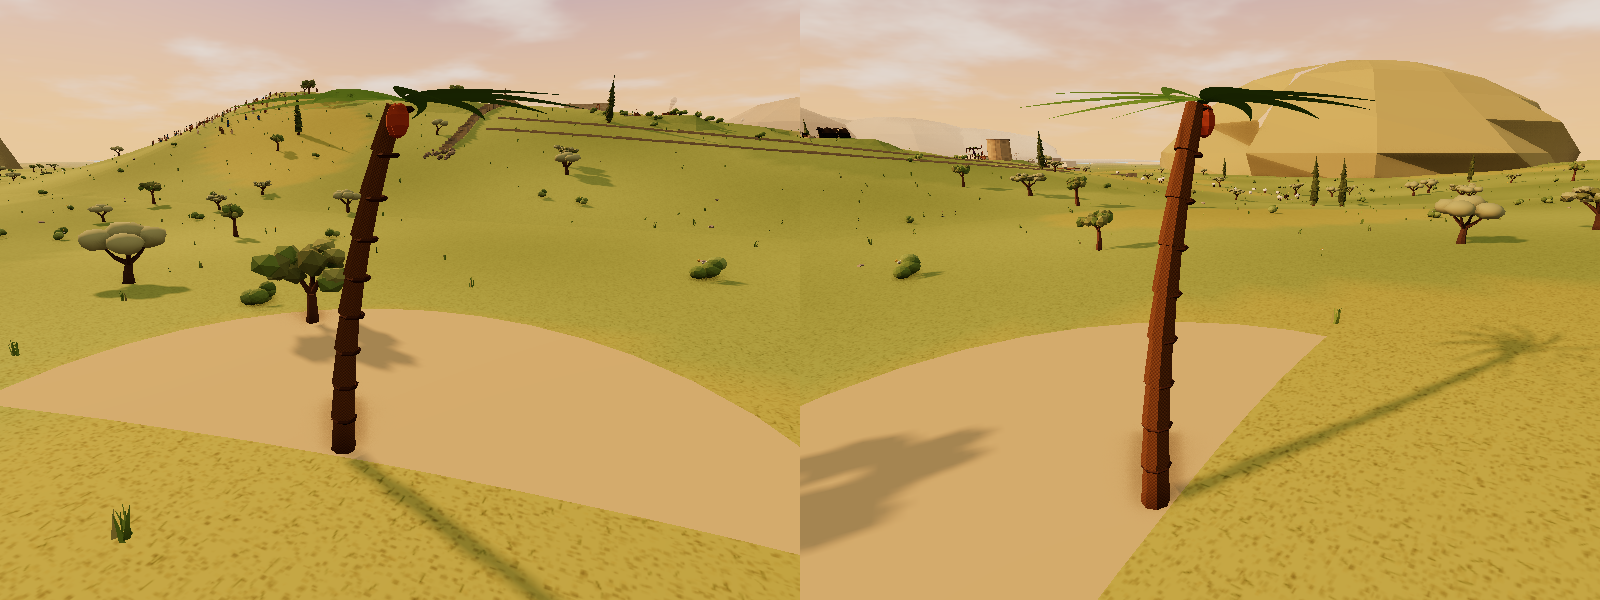
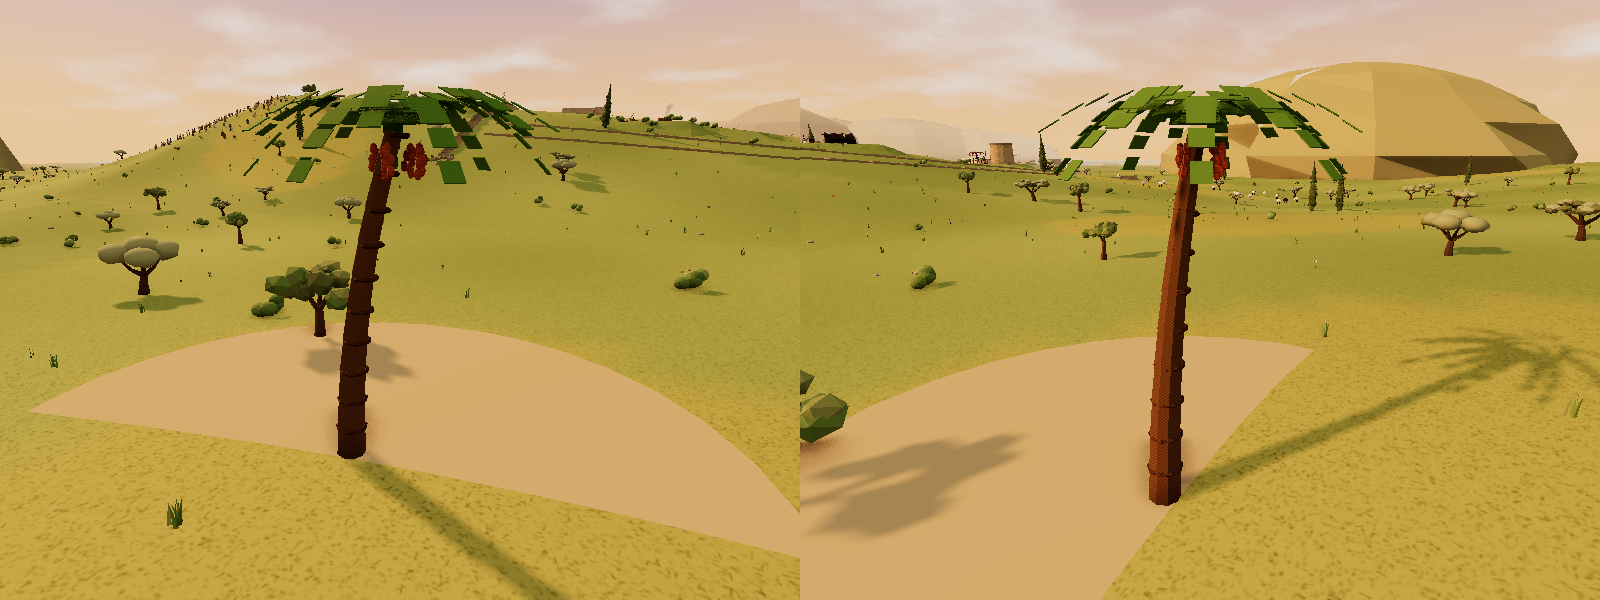
Model workshop round 2: all 22 models rebuilt from the critic's notes
Claude-Session: https://claude.ai/code/session_011GTaBjBmrRYMxR8CbFEKPF

diff --git a/som-ltm/world/models.js b/som-ltm/world/models.js
@@ -24,127 +24,145 @@ function thornBush(g, x, y, z, s = 1) { for (let i = 0; i < 9; i++) { const a = 
 function def(id, label, fn) { defObject(id, (g, x, y, z) => { const h = G(); h.position.set(x, y, z); g.add(h); return fn(h); }, { label, origin: 'sermon on the mount', kind: 'object' }); }
 
 // ---- the Seat (5:1–5) ----
-def('som-goatskin-bag', 'Goatskin water bag on a forked stake', g => {
-  cy(g, .05, .07, 1.75, 7, mWoodDk, 0, 0, 0); cy(g, .03, .045, .5, 6, mWoodDk, -.12, 1.6, 0, 0, 0, .6); cy(g, .03, .045, .5, 6, mWoodDk, .12, 1.6, 0, 0, 0, -.6);   // the forked stake
-  const hair = MM('somGoatHair', '#8a6440', TEX.cloth);
-  const body = add(new THREE.CapsuleGeometry(.24, .62, 6, 12), hair, 0, 1.05, .32, g); body.rotation.z = Math.PI / 2; body.scale.set(1, 1.05, .85);   // the whole skin, swollen with water, hanging sideways
-  const belly = add(new THREE.SphereGeometry(.26, 12, 8), hair, .05, .93, .32, g); belly.scale.set(1.5, .7, .85);   // sagging belly
-  for (const [x, up] of [[-.45, 1], [-.3, 1], [.3, 1], [.45, 1]]) { const lg = cy(g, .05, .07, .26, 7, mLeatherDk, x, 1.18, .32, 0, 0, x < 0 ? .5 : -.5); cy(g, .055, .055, .04, 7, mCord, x * 1.1, 1.35, .32, 0, 0, x < 0 ? .5 : -.5); }   // four leg stumps, each tied off
-  const nk = cy(g, .07, .1, .26, 8, mLeatherDk, -.62, 1.02, .32, 0, 0, 1.2); cy(g, .075, .075, .05, 8, mCord, -.74, 1.07, .32, 0, 0, 1.2);   // the neck, the spout, tied with cord
-  for (const sx of [-.4, .4]) { const c2 = cy(g, .012, .012, .55, 4, mCord, sx * .55, 1.5, .2, .5, 0, sx < 0 ? -.45 : .45); }   // cords from the legs up to the fork
-  return 1.9; });
+def('som-goatskin-bag', 'Goatskin water bag hung from a forked stake', g => {
+  cy(g, .05, .07, 1.9, 7, mWoodDk, 0, 0, -.35); cy(g, .03, .045, .55, 6, mWoodDk, -.14, 1.75, -.35, 0, 0, .6); cy(g, .03, .045, .55, 6, mWoodDk, .14, 1.75, -.35, 0, 0, -.6);   // the forked stake, behind the bag
+  const hair = MM('somGoatHair', '#8a6440', TEX.cloth), seam = MM('somSeam', '#4a3020');
+  const body = add(new THREE.CapsuleGeometry(.25, .62, 6, 12), hair, 0, .95, .1, g); body.rotation.z = Math.PI / 2; body.scale.set(1, 1.05, .85); const belly = add(new THREE.SphereGeometry(.27, 12, 8), hair, .05, .83, .1, g); belly.scale.set(1.5, .72, .85);
+  bx(g, 1.0, .02, .02, seam, 0, 1.12, .3); bx(g, .02, .35, .02, seam, -.15, .95, .32);   // seams of the stitched skin
+  for (const x of [-.45, -.3, .3, .45]) { cy(g, .055, .075, .3, 7, mLeatherDk, x, 1.12, .1, 0, 0, x < 0 ? .45 : -.45); cy(g, .06, .06, .04, 7, mCord, x * 1.12, 1.3, .1, 0, 0, x < 0 ? .45 : -.45); }   // four leg stubs, tied off
+  cy(g, .08, .11, .3, 8, mLeatherDk, -.66, .95, .1, 0, 0, 1.15); cy(g, .085, .085, .05, 8, mCord, -.8, 1.01, .1, 0, 0, 1.15); cy(g, .05, .05, .06, 6, mWoodLt, -.84, 1.04, .1, 0, 0, 1.15);   // the neck, tied, a wooden stopper
+  for (const x of [-.5, .5]) { const lx = x * .9, ly = 1.32, tx = x * .32, ty = 1.95, L = Math.hypot(tx - lx, ty - ly, .45); const c = cy(g, .013, .013, L, 4, mCord, (lx + tx) / 2, (ly + ty) / 2 - L / 2, -.12, .55, 0, Math.atan2(tx - lx, ty - ly) * -1); }   // cords from the legs up to the fork
+  return 2.0; });
 def('som-limestone-pavement', 'Bare limestone pavement', g => {
-  const P = [[0, 0, 1.0], [1.35, -.3, .75], [-1.25, .2, .8], [.4, 1.1, .7], [-.5, -1.0, .65], [1.1, .9, .5], [-1.4, -.9, .45], [.2, -1.6, .5]];
-  P.forEach(([x, z, r], i) => slab(g, r * .92, R(.08, .14), i % 3 ? mLime : mLimeDk, x, R(-.02, .03), z, 6, R(0, 3)));
-  bx(g, 4.2, .02, 4, MM('somCrack', '#5a5040'), 0, -.01, 0);   // the dark soil showing in the cracks between the slabs
-  for (let i = 0; i < 14; i++) { const t = add(new THREE.ConeGeometry(.03, R(.12, .25), 3), mGrass, R(-1.6, 1.6), .05, R(-1.6, 1.4), g); }   // grass in the cracks
-  return .2; });
+  const soil = add(new THREE.CircleGeometry(2.1, 9), MM('somCrack', '#6a5e48'), 0, .005, 0, g); soil.rotation.x = -Math.PI / 2; soil.scale.set(1, .9, 1);
+  const P = [[0, 0, .9], [1.25, -.35, .65], [-1.15, .2, .7], [.35, 1.05, .62], [-.45, -.95, .6], [1.05, .85, .45], [-1.3, -.85, .4], [.25, -1.5, .45], [-.8, 1.1, .45]];
+  P.forEach(([x, z, r], i) => { const sh = new THREE.Shape(); const n = 4 + (i % 3); for (let k = 0; k < n; k++) { const a = k / n * 6.283 + R(-.3, .3), rr = r * R(.7, 1.05); k ? sh.lineTo(Math.cos(a) * rr, Math.sin(a) * rr) : sh.moveTo(Math.cos(a) * rr, Math.sin(a) * rr); }
+    const geo = new THREE.ExtrudeGeometry(sh, { depth: R(.12, .2), bevelEnabled: false }); geo.rotateX(-Math.PI / 2); const o = add(geo, i % 3 ? mLime : mLimeDk, x, 0, z, g); o.rotation.y = R(0, 3); });   // angular blocks with deep cracks between
+  for (let i = 0; i < 26; i++) { const a = R(0, 6.3), d = R(.4, 1.9); add(new THREE.ConeGeometry(.035, R(.15, .3), 3), mGrass, Math.cos(a) * d, .08, Math.sin(a) * d, g); }   // grass in the grikes
+  return .22; });
 def('som-seat-rock', 'Flat seat-rock', g => {
-  boulder(g, 1.2, mRock, 0, -.15, 0, .55); slab(g, .95, .1, mLime, 0, .52, 0, 7, .4); boulder(g, .4, mRockDk, -1.1, 0, .5, .6); boulder(g, .3, mRockDk, .9, 0, .8, .6);
-  return .65; });
+  const rk = MM('somSeatRock', '#b4aa96'); const shp = new THREE.Shape(); [[1.2, 0], [.8, .9], [-.4, 1.05], [-1.15, .35], [-1, -.6], [-.1, -1.1], [.9, -.75]].forEach(([x, z], i) => i ? shp.lineTo(x, z) : shp.moveTo(x, z));
+  const geo = new THREE.ExtrudeGeometry(shp, { depth: .55, bevelEnabled: true, bevelThickness: .12, bevelSize: .15, bevelSegments: 2 }); geo.rotateX(-Math.PI / 2); add(geo, rk, 0, 0, 0, g);   // one stone, its top worn flat
+  for (const [x, z, r] of [[-1.35, .55, .3], [1.25, .7, .25], [1.4, -.5, .2], [-.9, -1.15, .22], [.3, 1.35, .18]]) boulder(g, r, mRockDk, x, 0, z, .7);
+  return .8; });
 def('som-split-boulder', 'Split boulder with a thornbush in the crack', g => {
-  const a = boulder(g, .85, mRock, -.55, 0, 0, .85); a.scale.x = .8; const b = boulder(g, .8, mRockDk, .55, 0, .05, .85); b.scale.x = .8;
-  bx(g, .18, .3, 1.2, mDark, 0, 0, 0); thornBush(g, 0, .3, .1, 1.5);
-  return 1.25; });
+  const geo = new THREE.DodecahedronGeometry(.9, 0); const half = (s) => { const o = add(geo.clone(), mRock, s * .52, .55, 0, g); o.scale.set(.62, .78, .95); o.rotation.y = .3; return o; }; half(-1); half(1);   // the two halves of one stone
+  for (let k = 0; k < 3; k++) thornBush(g, R(-.05, .05), .25 + k * .1, R(-.25, .25), 1.6);
+  return 1.3; });
 
 // ---- the Sheepfold (5:6–10) ----
 function dryWall(g, x0, z0, x1, z1, hh, th = .5) { const L = Math.hypot(x1 - x0, z1 - z0), n = Math.max(2, Math.round(L / .42)); for (let row = 0; row < Math.round(hh / .26); row++) for (let k = 0; k <= n; k++) { const t = Math.min(1, (k + (row % 2) * .5) / n);
   const st = add(new THREE.BoxGeometry(R(.38, .5), R(.2, .28), th * R(.85, 1.05)), rnd() > .45 ? mRock : mRockDk, x0 + (x1 - x0) * t, .13 + row * .25, z0 + (z1 - z0) * t, g); st.rotation.y = -Math.atan2(z1 - z0, x1 - x0) + R(-.1, .1); st.rotation.z = R(-.06, .06); } }
 def('som-slab-corner', 'Corner of the fold roofed with flat slabs', g => {
-  dryWall(g, -1.2, -1.2, 1.2, -1.2, 1.3); dryWall(g, -1.2, -1.2, -1.2, 1.0, 1.3);   // two walls meeting at the back-left
-  for (let k = 0; k < 3; k++) slab(g, .8, .14, mRockDk, -.5 + k * .55, 1.32, -.5 + k * .1, 5, R(0, 3));   // thick flat slabs laid across
-  bx(g, 1.8, .02, 1.8, mDark, -.3, .01, -.3);   // the shade beneath
-  return 1.6; });
-def('som-crook', 'Shepherd\'s crook hung on the wall', g => {
-  dryWall(g, -.8, 0, .8, 0, .9, .45); cy(g, .03, .03, .25, 5, mWoodDk, .25, .78, .2, Math.PI / 2);   // a stretch of wall with a peg
-  const st = cy(g, .03, .035, 1.9, 7, mWoodLt, .2, -.05, .26, -.04, 0, .1); const hk = add(new THREE.TorusGeometry(.14, .03, 6, 12, Math.PI * 1.25), mWoodLt, .38, 1.9, .26, g); hk.rotation.z = -.3;
-  return 2.1; });
+  bx(g, 2.6, .02, 2.4, MM('somFoldFloor', '#9a8458'), 0, .01, -.1);   // trodden earth floor
+  dryWall(g, -1.25, -1.25, 1.25, -1.25, 1.35, .7); dryWall(g, -1.25, -1.25, -1.25, 1.05, 1.35, .7);
+  slab(g, 1.0, .2, mRockDk, -.35, 1.38, -.5, 5, .4); slab(g, .9, .2, mRock, .3, 1.4, -.25, 5, 1.6); slab(g, .8, .18, mRockDk, -.5, 1.42, .3, 5, 2.6);   // three thick slabs laid across for shade
+  return 1.7; });
+def('som-crook', 'Shepherd\'s crook hung on a peg on the wall', g => {
+  dryWall(g, -.9, 0, .9, 0, 1.0, .45); const peg = cy(g, .045, .045, .32, 6, mWoodLt, .2, 1.0, .22, Math.PI / 2);   // dry-stone wall, a stout wooden peg
+  cy(g, .03, .035, 1.25, 7, mWoodLt, .48, -.05, .3, 0, 0, .02); const hk = add(new THREE.TorusGeometry(.15, .03, 6, 12, Math.PI * 1.1), mWoodLt, .33, 1.2, .3, g); hk.rotation.z = -.05;   // the crook hanging by its hook over the peg
+  return 1.4; });
 def('som-fold-gateway', 'Gateway of the fold', g => {
-  dryWall(g, -2, 0, -.75, 0, 1.0); dryWall(g, .75, 0, 2, 0, 1.0);
-  for (const s of [-1, 1]) { boulder(g, .42, mRockDk, s * .72, 0, 0, 2.2); } slab(g, .95, .16, mRock, 0, 1.25, 0, 5, 1.57);   // two upright stones, a lintel slab across
-  bx(g, 1.2, .02, .8, MM('somWorn', '#b8a070'), 0, .01, .3);   // worn earth through the gap
-  return 1.45; });
+  dryWall(g, -2.8, 0, -.85, 0, 1.25, .6); dryWall(g, .85, 0, 2.8, 0, 1.25, .6);
+  for (const s of [-1, 1]) bx(g, .45, 1.6, .55, mRock, s * .68, 0, 0, s * .04);   // two upright slabs with flat bearing faces
+  bx(g, 1.9, .26, .6, mRockDk, 0, 1.6, 0, .03); bx(g, 1.2, .02, .9, MM('somWorn', '#b8a070'), 0, .01, .3);   // the lintel; worn earth through the gap
+  return 1.9; });
 
 // ---- the House on the Sand (7:26–29) ----
 def('som-date-palm', 'Date palm leaning over the house', g => {
-  const n = 9; let x = 0, y = 0, lean = .08; for (let i = 0; i < n; i++) { const h = .55, seg = cy(g, .16 - i * .006, .19 - i * .006, h, 8, mPalmTrunk, x, y, 0, 0, 0, -lean * (i + 1) * .5); x += Math.sin(lean * (i + 1) * .5) * h; y += Math.cos(lean * (i + 1) * .5) * h; add(new THREE.TorusGeometry(.17 - i * .006, .03, 4, 8), mWoodDk, x, y - .02, 0, g).rotation.x = Math.PI / 2; }
-  for (let k = 0; k < 11; k++) { const a = k / 11 * 6.28, fr = new THREE.Group(); fr.position.set(x, y + .1, 0); fr.rotation.set(0, a, 0); g.add(fr);
-    const shape = new THREE.Shape(); shape.moveTo(0, 0); shape.quadraticCurveTo(.9, .35, 2, -.5); shape.quadraticCurveTo(.9, .1, 0, -.08); const leaf = add(new THREE.ShapeGeometry(shape), mFrond, 0, 0, 0, fr); leaf.rotation.set(Math.PI / 2 - R(.2, .5), 0, 0); }
-  for (let k = 0; k < 4; k++) add(new THREE.SphereGeometry(.12, 6, 5), mDates, x + R(-.2, .2), y - .15, R(-.2, .2), g).scale.y = 1.6;
-  return y + .4; });
+  let x = 0, y = 0; for (let i = 0; i < 10; i++) { const lean = .07 * (i + 1) * .45, r0 = .26 - i * .013, h = .55; cy(g, r0 - .015, r0, h, 9, mPalmTrunk, x, y, 0, 0, 0, -lean); x += Math.sin(lean) * h; y += Math.cos(lean) * h; add(new THREE.TorusGeometry(r0 - .01, .035, 4, 9), mWoodDk, x, y - .03, 0, g).rotation.set(Math.PI / 2, 0, -lean); }   // tapering, scarred trunk, leaning
+  for (let k = 0; k < 15; k++) { const a = k / 15 * 6.28, droop = k % 2 ? .55 : .25, fr = new THREE.Group(); fr.position.set(x, y + .1, 0); fr.rotation.set(0, a, 0); g.add(fr);
+    for (let j = 0; j < 7; j++) { const t = (j + .5) / 7, L = 2.2, px = t * L, py = Math.sin(t * 2.4) * .5 - t * t * droop * 2; const lf = bx(fr, .3, .015, .55 * (1 - t * .6), mFrond, px, py, 0, 0, 0, -.3 - t * droop); }
+  }   // fifteen arching fronds
+  for (let k = 0; k < 4; k++) { const a = k / 4 * 6.28; for (let j = 0; j < 8; j++) add(new THREE.SphereGeometry(.06, 5, 4), mDates, x + Math.cos(a) * .35 + R(-.08, .08), y - .2 - j * .05, Math.sin(a) * .35 + R(-.08, .08), g).scale.y = 1.4; }   // hanging date clusters
+  return y + .5; });
 def('som-mudbrick-wall', 'Low mud-brick wall of the yard', g => {
-  for (let row = 0; row < 4; row++) for (let k = 0; k < 7; k++) bx(g, .44, .18, .3, rnd() > .5 ? mBrick : mMud, -1.4 + k * .46 + (row % 2) * .23, row * .2, 0, R(-.03, .03));
-  bx(g, 3.4, .06, .34, mMud, 0, .8, 0);   // a plastered top course
-  return .9; });
+  const mb = MM('somMudBrick', '#b49a74', TEX.plaster), mb2 = MM('somMudBrick2', '#a68c66', TEX.plaster);
+  for (let row = 0; row < 3; row++) for (let k = 0; k < 6; k++) bx(g, .56 * R(.94, 1.02), .24, .36, rnd() > .5 ? mb : mb2, -1.45 + k * .58 + (row % 2) * .29, row * .25, 0, R(-.04, .04), 0, R(-.03, .03));
+  const cap = add(new THREE.CapsuleGeometry(.2, 3.1, 4, 8), mb, 0, .82, 0, g); cap.rotation.z = Math.PI / 2; cap.scale.set(1, .6, 1);   // a rounded mud coping
+  return .95; });
 
 // ---- the Ox Stall (6:21–25) ----
 def('som-yoke-on-peg', 'Yoke for two oxen, hung on its peg', g => {
-  bx(g, 2.6, 1.8, .3, mRock, 0, 0, -.2); cy(g, .05, .05, .35, 6, mWoodDk, 0, 1.55, 0, Math.PI / 2);   // a stretch of the stall wall with a peg
-  const beam = bx(g, 2.1, .16, .18, mWoodLt, 0, 1.38, .12); for (const s of [-.6, .6]) { const bow = add(new THREE.TorusGeometry(.22, .045, 6, 12, Math.PI), mWood, s, 1.36, .12, g); bow.rotation.z = Math.PI; cy(g, .03, .03, .12, 5, mWoodDk, s - .22, 1.42, .12); cy(g, .03, .03, .12, 5, mWoodDk, s + .22, 1.42, .12); }
-  add(new THREE.TorusGeometry(.07, .02, 4, 8), mIron, 0, 1.3, .2, g);   // the ring for the pole
-  return 1.8; });
-def('som-plough', 'Wooden plough with an iron share', g => {
-  const beam = bx(g, .12, .12, 2.4, mWoodLt, 0, .62, -.1, 0, -.32); const sole = bx(g, .16, .12, .9, mWood, 0, .08, .75); const share = bx(g, .1, .08, .4, mIron, 0, .06, 1.3, 0, -.1);
-  const stilt = bx(g, .09, 1.0, .09, mWood, 0, .1, .3, 0, -.35); bx(g, .45, .07, .07, mWood, 0, 1.0, .0, 0, -.35);   // the upright and its handle
-  return 1.1; });
+  dryWall(g, -1.5, -.3, 1.5, -.3, 2.1, .45); cy(g, .07, .07, .6, 7, mWoodLt, 0, 1.85, .0, Math.PI / 2);   // coursed stall wall and a stout peg
+  const yk = MM('somYokeWood', '#c89a62', TEX.wood); const beam = add(new THREE.TorusGeometry(3.2, .1, 6, 30, .62), yk, 0, -1.45, .35, g); beam.rotation.z = Math.PI / 2 - .31;   // a long, gently curved beam hung at its middle
+  for (const s of [-.75, .75]) { const bow = add(new THREE.TorusGeometry(.3, .055, 6, 14, Math.PI), yk, s, 1.42, .35, g); bow.rotation.z = Math.PI; for (const d of [-.3, .3]) cy(g, .04, .04, .2, 5, mWoodDk, s + d, 1.6, .35); }   // two big U-shaped bows hanging below, pegged through the beam
+  add(new THREE.TorusGeometry(.09, .025, 4, 10), mIron, 0, 1.55, .45, g);
+  return 2.1; });
+def('som-plough', 'Wooden plough (ard) with an iron share', g => {
+  bx(g, .16, .14, 1.0, mWood, 0, .06, .45);   // the sole, along the ground
+  const share = add(new THREE.ConeGeometry(.08, .45, 4), mIron, 0, .1, 1.12, g); share.rotation.x = Math.PI / 2;   // the pointed iron share on its tip
+  const beam = bx(g, .12, .12, 2.6, mWoodLt, 0, .75, -.45, 0, .42);   // the long beam rising from the sole to the yoke
+  const stilt = bx(g, .1, 1.1, .1, mWood, 0, .1, .05, 0, -.3); bx(g, .5, .08, .08, mWoodLt, 0, 1.15, -.25, 0, -.3);   // the handle upright and its grip
+  return 1.3; });
 def('som-feeding-niche', 'Roof pillar with a feeding niche of hay', g => {
-  bx(g, .8, 2.7, .8, mRock, 0, 0, 0); bx(g, .62, .55, .2, mDark, 0, .75, .32); for (let i = 0; i < 10; i++) { const s = bx(g, .5, .02, .03, mStraw, R(-.2, .2), .8 + R(0, .3), .36, R(0, 3), 0, R(-.4, .4)); }
-  bx(g, .68, .08, .3, mWoodLt, 0, .7, .38);   // the niche's wooden lip
-  return 2.75; });
+  for (let row = 0; row < 9; row++) for (const [x, z, w, d] of [[0, -.3, .9, .3], [0, .3, .9, .3], [-.3, 0, .3, .3], [.3, 0, .3, .3]]) { if (row >= 2 && row <= 4 && z > .2) continue; bx(g, w * R(.97, 1.03), .28, d, rnd() > .5 ? mRock : mRockDk, x, row * .3, z, R(-.03, .03)); }
+  bx(g, .7, .08, .5, mRockDk, 0, .58, .15); bx(g, .7, .08, .5, mRockDk, 0, 1.5, .15);
+  bx(g, .6, .25, .4, mWood, 0, .66, .18); for (let i = 0; i < 26; i++) bx(g, R(.3, .6), .025, .03, mStraw, R(-.22, .22), .9 + R(0, .3), R(.05, .45), R(0, 3), 0, R(-.5, .5));
+  bx(g, 1.2, .25, 1.0, mWoodDk, 0, 2.7, 0);
+  return 2.95; });
 
 // ---- the Bee Bank (5:31–35) ----
 def('som-hive-pipes', 'Stack of clay hive pipes', g => {
-  for (let row = 0; row < 3; row++) for (let k = 0; k < 4 - row; k++) { const x = (k - (3 - row) / 2) * .46, y = .24 + row * .42; cy(g, .22, .22, 1.1, 12, row % 2 ? mClay : mClayDk, x, y, 0, Math.PI / 2);
-    cy(g, .2, .2, .03, 12, mMud, x, y, .56, Math.PI / 2); add(new THREE.CircleGeometry(.04, 6), mDark, x, y - .08, .58, g); }   // mud-sealed ends with a small entrance hole
-  bx(g, 2.1, .1, 1.2, mRock, 0, -.05, 0);
-  for (let i = 0; i < 10; i++) add(new THREE.SphereGeometry(.03, 5, 4), mDark, R(-.9, .9), R(.2, 1.5), R(.6, 1.0), g);   // bees
-  return 1.5; });
+  const lid = MM('somHiveLid', '#d8c4a0', TEX.plaster);
+  for (let row = 0; row < 3; row++) for (let k = 0; k < 4 - row; k++) { const x = (k - (3 - row) / 2) * .36, y = .2 + row * .33; cy(g, .16, .16, 1.4, 12, row % 2 ? mClay : mClayDk, x, y, 0, Math.PI / 2);
+    cy(g, .165, .165, .05, 12, lid, x, y, .71, Math.PI / 2); add(new THREE.CircleGeometry(.035, 8), mDark, x, y - .06, .74, g); }
+  bx(g, 1.8, .08, 1.5, mRock, 0, -.04, 0); for (let i = 0; i < 7; i++) add(new THREE.SphereGeometry(.014, 4, 3), mDark, R(-.6, .6), R(.15, .9), R(.76, .95), g);
+  return 1.2; });
 def('som-smoker-pot', 'Beekeeper\'s smoker pot', g => {
-  boulder(g, .35, mRock, 0, 0, 0, .7); lathe(g, [[0, 0], [.2, .02], [.28, .2], [.26, .42], [.12, .52], [.1, .6]], mClay, 0, .42, 0); cy(g, .05, .07, .32, 8, mClay, .25, .85, 0, 0, 0, -.9);
-  for (let k = 0; k < 6; k++) add(new THREE.SphereGeometry(.08 + k * .05, 8, 6), mSmoke, .38 + k * .12, 1.0 + k * .25, R(-.05, .05), g);
-  return 1.05; });
+  boulder(g, .35, mRock, 0, 0, 0, .7); lathe(g, [[0, 0], [.2, .02], [.28, .2], [.27, .42], [.2, .52], [.21, .56], [.17, .56], [.16, .5]], mClay, 0, .42, 0); cy(g, .17, .17, .02, 12, mDark, 0, .96, 0);
+  cy(g, .06, .1, .5, 10, mClay, .3, .78, 0, 0, 0, -1.0); cy(g, .07, .07, .03, 10, mDark, .52, .93, 0, 0, 0, -1.0);
+  for (let k = 0; k < 5; k++) add(new THREE.SphereGeometry(.05 + k * .035, 8, 6), MM('somSmokeT', '#ece8e0', null, { transparent: true, opacity: .3, depthWrite: false }), .58 + k * .1, .98 + k * .16, 0, g);
+  return 1.0; });
 def('som-comb-tray', 'Tray of golden honeycomb', g => {
   bx(g, 1.2, .55, .9, mRock, 0, 0, 0); bx(g, 1.05, .06, .75, mWoodLt, 0, .55, 0); for (const s of [-.5, .5]) bx(g, 1.05, .1, .05, mWoodLt, 0, .58, s * .72);
-  for (let r = 0; r < 4; r++) for (let c = 0; c < 6; c++) { const x = -.4 + c * .16 + (r % 2) * .08, z = -.24 + r * .15; cy(g, .08, .08, .12, 6, mComb, x, .62, z); add(new THREE.CircleGeometry(.055, 6), mHoney, x, .685, z, g).rotation.x = -Math.PI / 2; }
-  for (let i = 0; i < 8; i++) add(new THREE.SphereGeometry(.03, 5, 4), mDark, R(-.5, .5), R(.75, 1.2), R(-.4, .4), g);
-  return .8; });
+  for (let k = 0; k < 4; k++) { const w = R(.18, .26), x = -.36 + k * .24; bx(g, w, R(.07, .1), .55, mComb, x, .61, R(-.03, .03), R(-.15, .15)); for (let c = 0; c < 5; c++) add(new THREE.CircleGeometry(.03, 6), mHoney, x + R(-.07, .07), .7, -.22 + c * .11, g).rotation.x = -Math.PI / 2; }
+  for (let i = 0; i < 6; i++) { const dr = add(new THREE.SphereGeometry(.03, 6, 5), mHoney, R(-.5, .5), .52, R(.36, .4), g); dr.scale.y = 2.2; }
+  return .75; });
 
 // ---- the Fisherman's Court (7:6–10) ----
 def('som-salting-vat', 'Fish-salting vat', g => {
   lathe(g, [[0, 0], [.75, 0], [.82, .1], [.8, .75], [.86, .82], [.7, .82], [.68, .2], [0, .2]], mPlaster, 0, 0, 0, 20); cy(g, .68, .68, .04, 20, mBrine, 0, .62, 0);
-  for (let i = 0; i < 9; i++) { const f = add(new THREE.CapsuleGeometry(.05, .26, 3, 6), mFishM, R(-.4, .4), .66, R(-.4, .4), g); f.rotation.set(Math.PI / 2, 0, R(0, 3)); }
-  for (let i = 0; i < 14; i++) add(new THREE.DodecahedronGeometry(.045, 0), mSalt, R(-.5, .5), .66, R(-.5, .5), g);
-  const lid = cy(g, .5, .5, .05, 14, mWoodLt, 1.0, .35, .3, 1.2, 0, 0);   // its wooden lid leaning against it
+  add(new THREE.TorusGeometry(.72, .05, 5, 24), mSalt, 0, .78, 0, g).rotation.x = Math.PI / 2;
+  for (let i = 0; i < 7; i++) { const a = i / 7 * 6.28, f = add(new THREE.CapsuleGeometry(.08, .38, 4, 8), mFishM, Math.cos(a) * .36, .67, Math.sin(a) * .36, g); f.rotation.set(Math.PI / 2, 0, a + 1.57); }
+  const lid = new THREE.Group(); lid.position.set(1.05, .55, .2); lid.rotation.set(0, .4, .35); g.add(lid); cy(lid, .55, .55, .06, 18, mWoodLt, 0, 0, 0, Math.PI / 2); for (const s of [-.22, .22]) bx(lid, .08, 1.0, .06, mWood, s, -.5, .05);
   return .9; });
-def('som-mending-stone', 'Mending stone with a coil of rope and a net needle', g => {
-  boulder(g, .65, mRock, 0, 0, 0, .6); slab(g, .5, .06, mLime, 0, .42, 0, 6);
-  for (let k = 0; k < 4; k++) add(new THREE.TorusGeometry(.3 - k * .06, .045, 6, 16), mRope, .1, .52 + k * .05, 0, g).rotation.x = Math.PI / 2;
-  bx(g, .03, .02, .28, mWoodLt, -.3, .52, .2, .5);
+def('som-mending-stone', 'Mending stone with a net spread over it', g => {
+  boulder(g, .7, mRock, 0, 0, 0, .6);
+  const net = MM('somNetM', '#8a7a5a'); for (let i = -6; i <= 6; i++) { bx(g, 1.6, .012, .012, net, 0, .5 - Math.abs(i) * .01, i * .1); bx(g, .012, .012, 1.3, net, i * .12, .5 - Math.abs(i) * .01, 0); }
+  for (let k = 0; k < 3; k++) add(new THREE.TorusGeometry(.26 - k * .07, .04, 6, 16), mRope, -.6, .08 + k * .07, .5, g).rotation.x = Math.PI / 2;
+  bx(g, .05, .025, .4, mWoodLt, .2, .54, .1, .6); bx(g, .012, .03, .3, mCord, .2, .56, .1, .6);
   return .75; });
 def('som-court-entrance', 'Entrance of a basalt courtyard', g => {
-  const bas = MM('somBasaltM', '#6e6862', TEX.stone); for (const s of [-1, 1]) { for (let row = 0; row < 5; row++) bx(g, .5, .32, .5, bas, s * .85, row * .33, 0, R(-.05, .05)); dryWall(g, s * 1.1, 0, s * 2.4, 0, .9); }
-  bx(g, 2.2, .3, .55, bas, 0, 1.65, 0); bx(g, 1.2, .03, .7, MM('somWorn', '#b8a070'), 0, .01, .3);
-  return 1.95; });
+  const bas = MM('somBasaltM2', '#7c766e'), basDk = MM('somBasaltM3', '#625c56');
+  for (const s of [-1, 1]) { for (let row = 0; row < 6; row++) bx(g, .55, .3, .55, row % 2 ? bas : basDk, s * .85, row * .31, 0, R(-.04, .04));
+    for (let row = 0; row < 5; row++) for (let k = 0; k < 4; k++) bx(g, .42, .28, .45, rnd() > .5 ? bas : basDk, s * (1.35 + k * .44 + (row % 2) * .2), row * .3, 0, R(-.05, .05)); }
+  bx(g, 2.4, .32, .6, basDk, 0, 1.86, 0); bx(g, 1.2, .03, .7, MM('somWorn', '#b8a070'), 0, .01, .3);
+  return 2.2; });
 
 // ---- the Ridge Road (5:41–45) ----
 def('som-culvert', 'Culvert stones over a gully', g => {
-  const dip = bx(g, 2.6, .02, 1.1, MM('somGullyM', '#8a7a52'), 0, -.02, 0, Math.PI / 2);
-  for (const s of [-1, 1]) for (let k = 0; k < 3; k++) boulder(g, .32, mRockDk, s * .55, k * .25, (k - 1) * .4, .9);
-  slab(g, .75, .16, mRock, 0, .72, 0, 5, .3); slab(g, .6, .14, mRock, 0, .72, .7, 5, 1.2); slab(g, .6, .14, mRock, 0, .72, -.7, 5, 2);
-  return .95; });
+  const earth = MM('somEarthBank', '#a8905e'); for (const s of [-1, 1]) bx(g, 1.4, .7, 2.4, earth, s * 1.15, -.15, 0, 0, 0, -s * .18);
+  bx(g, .9, .02, 3.2, MM('somGullyBed', '#7a6a48'), 0, -.02, 0); for (let i = 0; i < 6; i++) boulder(g, R(.08, .14), mRockDk, R(-.3, .3), 0, R(-1.4, 1.4), .6);
+  for (const s of [-1, 1]) for (let row = 0; row < 2; row++) for (let k = 0; k < 3; k++) bx(g, .35, .26, .42, row ? mRock : mRockDk, s * .58, row * .27, (k - 1) * .46, R(-.05, .05));
+  for (let k = -1; k <= 1; k++) bx(g, 1.6, .16, .48, mRock, 0, .54, k * .5, R(-.04, .04));
+  return .75; });
 def('som-amphora-buried', 'Old amphora half-buried by the road', g => {
-  const am = lathe(g, [[0, 0], [.08, .02], [.22, .3], [.3, .7], [.28, 1.0], [.16, 1.2], [.1, 1.25], [.1, 1.5], [.14, 1.55]], mClay, 0, -.15, 0); am.rotation.z = .7;
-  for (const s of [-1, 1]) { const h = add(new THREE.TorusGeometry(.13, .035, 5, 10, Math.PI), mClay, -.8, .82, s * .1, g); h.rotation.set(0, Math.PI / 2, .7); }
-  for (let i = 0; i < 12; i++) boulder(g, R(.1, .2), MM('somEarthM', '#9a7e56'), R(-.1, .5), 0, R(-.4, .4), .5);
+  const earth = MM('somEarthM', '#9a7e56'); const mound = add(new THREE.SphereGeometry(.9, 12, 6, 0, 6.3, 0, 1.57), earth, -.1, -.05, 0, g); mound.scale.set(1.2, .35, 1);
+  const am = new THREE.Group(); am.position.set(.1, .05, 0); am.rotation.z = .75; g.add(am);
+  lathe(am, [[0, 0], [.08, .02], [.22, .3], [.3, .7], [.28, 1.0], [.16, 1.2], [.1, 1.25], [.1, 1.5], [.14, 1.55], [.12, 1.58], [.08, 1.56]], mClay, 0, 0, 0, 16);
+  add(new THREE.TorusGeometry(.12, .025, 6, 14), mClay, 0, 1.56, 0, am).rotation.x = Math.PI / 2; for (const s of [-1, 1]) { const h = add(new THREE.TorusGeometry(.16, .035, 6, 12, Math.PI), mClay, s * .12, 1.3, 0, am); h.rotation.set(0, Math.PI / 2, s > 0 ? -.4 : .4); }
   return .9; });
 def('som-broken-cart', 'Cart with a broken wheel, propped on stones', g => {
-  bx(g, 1.4, .1, 2.2, mWoodLt, 0, .62, 0, 0, 0, .12); for (const s of [-1, 1]) bx(g, .08, .3, 2.2, mWood, s * .68, .7, 0, 0, 0, .12);   // bed and side rails
-  for (const s of [-1, 1]) bx(g, .07, .07, 1.6, mWood, s * .3, .6, 1.8, 0, .25);   // the shafts
-  const w = cy(g, .55, .55, .1, 14, mWood, .82, .55, 0, 0, 0, Math.PI / 2); for (let k = 0; k < 6; k++) bx(g, .04, 1.0, .04, mWoodDk, .84, .55, 0, k / 6 * Math.PI);   // the good wheel
-  boulder(g, .35, mRockDk, -.75, 0, .1, .9);   // propped on stones where the other wheel was
-  const bw = cy(g, .55, .55, .1, 14, mWood, -1.6, .06, .9, 0, 0, 0); for (let k = 0; k < 3; k++) bx(g, .04, .9, .04, mWoodDk, -1.6, .1, .9, 0, Math.PI / 2, k * .8);   // the broken wheel, lying in the grass, spokes missing
+  bx(g, 1.4, .1, 2.2, mWoodLt, 0, .62, 0, 0, 0, .12); for (const s of [-1, 1]) bx(g, .08, .3, 2.2, mWood, s * .68, .7, 0, 0, 0, .12);
+  for (const s of [-1, 1]) bx(g, .07, .07, 1.6, mWood, s * .3, .6, 1.8, 0, .25); cy(g, .06, .06, 1.7, 6, mWoodDk, 0, .5, 0, 0, 0, Math.PI / 2);
+  const wheel = (gg, x, y, z, rx, ry, rz, broken) => { const w = new THREE.Group(); w.position.set(x, y, z); w.rotation.set(rx, ry, rz); gg.add(w); add(new THREE.TorusGeometry(.5, .05, 6, 18, broken ? 4.6 : 6.3), mWood, 0, 0, 0, w); cy(w, .1, .1, .14, 10, mWoodDk, 0, 0, 0, Math.PI / 2);
+    for (let k = 0; k < (broken ? 4 : 8); k++) { const sp = bx(w, .035, .5, .035, mWoodDk, 0, 0, 0, 0, 0, k / 8 * 6.28); sp.position.set(Math.sin(k / 8 * 6.28) * -.25, Math.cos(k / 8 * 6.28) * .25 - .25, 0); } };
+  wheel(g, .84, .55, 0, 0, Math.PI / 2, 0, false);
+  for (let k = 0; k < 3; k++) boulder(g, .26, mRockDk, -.75, k * .22, R(-.15, .15), .8);
+  wheel(g, -1.6, .06, 1.0, -Math.PI / 2, 0, 0, true);
   return 1.2; });
 def('som-resting-stone', 'Resting stone at the fork of the road', g => {
-  boulder(g, .7, mRock, 0, 0, 0, .55); slab(g, .6, .08, mLime, 0, .4, 0, 7);
-  bx(g, 1.1, .02, 3, MM('somTrack', '#b8a07a'), -.9, .005, -1.6, .45); bx(g, 1.1, .02, 3, MM('somTrack', '#b8a07a'), .9, .005, -1.6, -.45);   // the two tracks forking around it
-  return .5; });
+  slab(g, .95, .42, mRock, 0, 0, 0, 7, .3); slab(g, .82, .05, mLime, 0, .52, 0, 7, .5);
+  const tr = MM('somTrack', '#b8a07a'); bx(g, .9, .03, 4.4, tr, 0, .025, 2.6); bx(g, .9, .03, 3.6, tr, -1.1, .025, -1.7, .5); bx(g, .9, .03, 3.6, tr, 1.1, .025, -1.7, -.5);
+  return .6; });

diff --git a/som-ltm/refs/models/SCORES.md b/som-ltm/refs/models/SCORES.md
@@ -1,0 +1,26 @@
+# Model critic scores
+
+| Model | Round 1 |
+| --- | --- |
+| som-goatskin-bag | 5.6 |
+| som-limestone-pavement | 5.2 |
+| som-seat-rock | 6.3 |
+| som-split-boulder | 6.0 |
+| som-slab-corner | 5.9 |
+| som-crook | 6.6 |
+| som-fold-gateway | 7.5 |
+| som-date-palm | 5.8 |
+| som-mudbrick-wall | 7.2 |
+| som-yoke-on-peg | 5.0 |
+| som-plough | 5.0 |
+| som-feeding-niche | 3.0 |
+| som-hive-pipes | 6.4 |
+| som-smoker-pot | 6.6 |
+| som-comb-tray | 6.3 |
+| som-salting-vat | 6.8 |
+| som-mending-stone | 5.6 |
+| som-court-entrance | 7.5 |
+| som-culvert | 4.4 |
+| som-amphora-buried | 7.7 |
+| som-broken-cart | 8.0 |
+| som-resting-stone | 4.9 |
